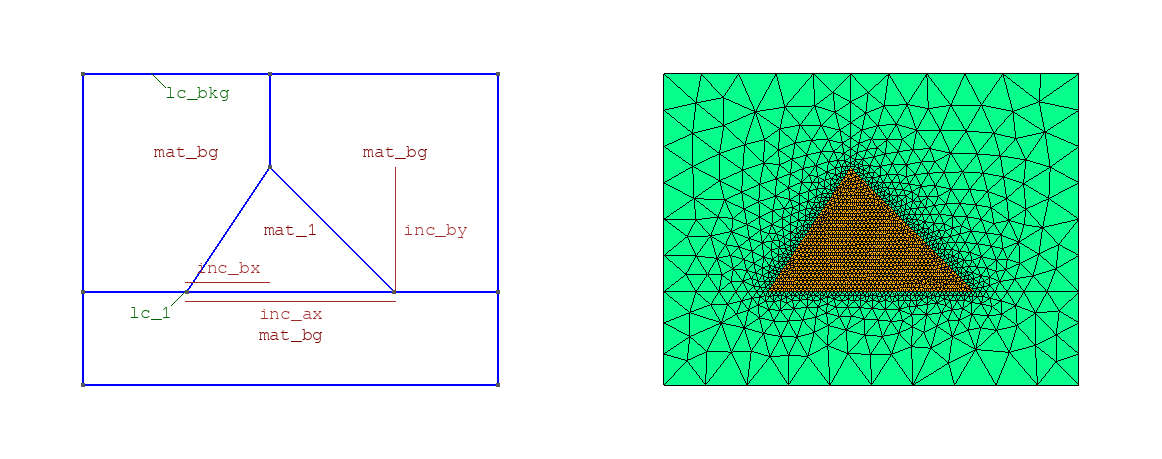
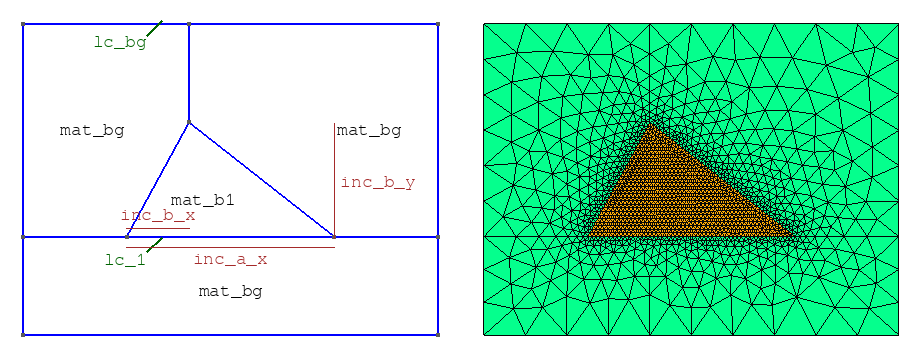
final

diff --git a/docs/source/images/make_meshfigs.py b/docs/source/images/make_meshfigs.py
@@ -1,6 +1,7 @@
 import sys
-from PIL import Image
+from PIL import Image, ImageDraw, ImageFont
 import time
+import math
 
 
 
@@ -17,6 +18,80 @@ mat_c = materials.make_material("SiO2_2016_Smith")
 mat_d = materials.make_material("SiO2_2016_Smith")
 mat_e = materials.make_material("SiO2_2016_Smith")
 
+fnt_mat = ImageFont.truetype("Pillow/Tests/fonts/FreeMono.ttf", 18)
+
+col_mat = 'black'
+col_lc = 'darkgreen'
+col_dim = 'brown'
+
+def add_mat_lab(im, bw, bh, lab, x, y):
+    d = ImageDraw.Draw(im)
+    d.text((x,y), lab, font=fnt_mat, fill=col_mat, anchor='mm')
+
+def add_lc(im, bw, bh, lab, x, y, compass):
+
+    arlen = .05*bw
+    sqlen = .05*bw/math.sqrt(2)
+    ax = x
+    ay = y
+
+    match compass:
+        case 'N':
+            ay -= alen
+            anc = 'mb'
+        case 'S':
+            ay += alen
+            anc = 'mt'
+        case 'E':
+            ax += alen
+            anc = 'lm'
+        case 'W':
+            ax -= alen
+            anc = 'rm'
+        case 'NW':
+            ax -= sqlen
+            ay -= sqlen
+            anc = 'rb'
+        case 'NE':
+            ax += sqlen
+            ay -= sqlen
+            anc = 'lb'
+        case 'SW':
+            ax -= sqlen
+            ay += sqlen
+            anc = 'rt'
+        case 'SE':
+            ax += sqlen
+            ay += sqlen
+            anc = 'lt'
+
+    d = ImageDraw.Draw(im)
+    d.line((x,y,ax,ay), fill=col_lc, width=2)
+    d.text((ax,ay), lab, font=fnt_mat, fill=col_lc, anchor=anc)
+
+def add_dim(im, bw, bh, lab, x1, y1, x2, y2, compass):
+
+    alen = bh*.02
+    tx = (x1 + x2)/2
+    ty = (y1+y2)/2
+
+    match compass:
+        case 'N':
+            ty -= alen
+            anc = 'mb'
+        case 'S':
+            ty += alen
+            anc = 'mt'
+        case 'E':
+            tx += alen
+            anc = 'lm'
+        case 'W':
+            tx -= alen
+            anc = 'rm'
+
+    d = ImageDraw.Draw(im)
+    d.line((x1,y1,x2,y2), fill=col_dim)
+    d.text((tx,ty), lab, font=fnt_mat, fill=col_dim, anchor=anc)
 
 def do_oneincl(nbapp):
 #
@@ -35,8 +110,74 @@ def do_oneincl(nbapp):
     wguide2 = nbapp.make_structure(unitcell_x,inc_a_x,unitcell_y,inc_a_y,'circular',
                             material_bkg=mat_bkg, material_a=mat_a,
                             lc_bkg=.1, lc_refine_1=10, lc_refine_2=10)
-    wguide1.plot_mesh('rect_wg')
-    wguide2.plot_mesh('circ_wg')
+    #wguide1.plot_mesh('rect_wg')
+    #wguide2.plot_mesh('circ_wg')
+
+    
+    unitcell_x = 4000
+    unitcell_y = 3000
+    inc_a_x = 2000
+    inc_b_x = 600
+    inc_b_y = 1100
+
+    wguide3 = nbapp.make_structure(unitcell_x,inc_a_x,unitcell_y,inc_a_y,'triangular',
+                            material_bkg=mat_bkg, material_a=mat_a,
+                            inc_b_x = inc_b_x, inc_b_y = inc_b_y,
+                            lc_bkg=.1, lc_refine_1=10, lc_refine_2=10)
+
+
+    frt = 'triangular'
+    wguide3.plot_mesh(frt+'_wg')
+
+
+    with Image.open(frt+'_wg-mesh.png').convert('RGBA') as im:
+        sz = im.size
+        bl = im.size[0]*.025
+        br = im.size[0]*.475
+        bt = im.size[1]*.06
+        bb = im.size[1]*.93
+        bw = br-bl
+        bh = bb-bt
+
+        scalx = 1/unitcell_x
+        scaly = 1/unitcell_y
+
+        bumpx = -.0*bw
+        bumpy = +.01*bh
+        x0 = (bl+br)/2  + bumpx
+        y0 = (bt+bb)/2 + bumpy
+        ymid = bt+bh*(.5+.5*inc_b_y*scaly) + bumpy
+
+        #add_mat_lab(im, bw, bh, 'x', x0, ymid)
+        #add_mat_lab(im, bw, bh, 'x', bl, bt)
+        #add_mat_lab(im, bw, bh, 'x', br, bt)
+        #add_mat_lab(im, bw, bh, 'x', bl, bb)
+        #add_mat_lab(im, bw, bh, 'x', br, bb)
+
+        add_mat_lab(im, bw, bh, 'mat_b1', x0-bw/15, ymid-bh/8)
+        add_mat_lab(im, bw, bh, 'mat_bg', x0-bw/3, y0-bh/6)
+        add_mat_lab(im, bw, bh, 'mat_bg', x0+bw/3, y0-bh/6)
+        add_mat_lab(im, bw, bh, 'mat_bg', x0, ymid+bh/6)
+
+        add_lc(im, bw, bh, 'lc_bg', x0-bw/6, bt, 'SW')
+        add_lc(im, bw, bh, 'lc_1',  x0-bw/6, ymid, 'SW')
+
+        x1 = x0-.5*bw*inc_a_x*scalx; x2 = x1+bw*inc_a_x*scalx
+        y1 = ymid+.03*bh; y2 = ymid+.03*bh
+        add_dim(im, bw, bh, 'inc_a_x', x1, y1, x2, y2, 'S')
+
+        x1 = x0-.5*bw*inc_a_x*scalx; x2 = x1+bw*inc_b_x*scalx
+        y1 = ymid-.03*bh; y2 = ymid-.03*bh
+        add_dim(im, bw, bh, 'inc_b_x', x1, y1, x2, y2, 'N')
+
+        x1 = x0+.5*bw*inc_a_x*scalx; x2 = x1
+        y1 = ymid; y2 = y1-bh*inc_b_y*scaly
+        add_dim(im, bw, bh, 'inc_b_y', x1, y1, x2, y2, 'E')
+
+
+        im.show()
+        im.save(frt+'_wg-mesh-annotated.png')
+
 
 def do_twoincl(nbapp):
     #
@@ -104,7 +245,7 @@ def do_rib(nbapp):
                                 material_c=mat_c, material_d=mat_d, material_e=mat_e,
                             lc_bkg=.1, lc_refine_1=10, lc_refine_2=10, lc_refine_3=10, 
                                 lc_refine_4=20, lc_refine_5=20)
-    wguide3.check_mesh()
+    #wguide3.check_mesh()
     wguide3.plot_mesh('rib_double_coated_wg')
 
     
@@ -144,8 +285,8 @@ def do_slot(nbapp):
                             lc_bkg=.1, lc_refine_1=10, lc_refine_2=10, 
                                 lc_refine_3=10, lc_refine_4=20)
     wguide2.plot_mesh('slot_coated_wg')
-    wguide1.check_mesh()
-    wguide2.check_mesh()
+    #wguide1.check_mesh()
+    #wguide2.check_mesh()
 
 
 

diff --git a/backend/numbattools.py b/backend/numbattools.py
@@ -10,10 +10,19 @@ import datetime
 
 from PIL import Image
 
-def join_figs(fn1, fn2, fnout):
+def join_figs(l_fns, fnout, clip=None):
 
-    images = [Image.open(x) for x in [fn1, fn2]]
+    images = []
+    for fn in l_fns: 
+        im = Image.open(fn)
 
+        if clip is not None:
+            sz = im.size
+            area = (clip[0], clip[1], sz[0]-clip[2], sz[1]-clip[3])
+            im = im.crop(area)
+        images.append(im)
+
+    #matches heights of first two images
     nsz0 = [images[1].size[0],
             int(images[0].size[1]*
             images[1].size[0]/

diff --git a/backend/objects.py b/backend/objects.py
@@ -650,10 +650,10 @@ class Structure(object):
 
         os.wait()
 
-        nbtools.join_figs(tmpoutpref+'-mesh_geom.png',
-                          tmpoutpref+'-mesh_nodes.png',
-                          str(outprefix)+'-mesh.png')
-        print(tmpoutpref)
+        nbtools.join_figs([tmpoutpref+'-mesh_geom.png',
+                          tmpoutpref+'-mesh_nodes.png',],
+                          str(outprefix)+'-mesh.png',
+                          clip=(60,50,60,50))
 
     def check_mesh(self):
         '''Visualise geometry and mesh with gmsh.'''

diff --git a/backend/plotting.py b/backend/plotting.py
@@ -26,7 +26,7 @@ from mpl_toolkits.axes_grid1 import make_axes_locatable
 
 import numbat
 from nbtypes import QAcMethod, FieldType, component_t
-from fortran import NumBAT
+#from fortran import NumBAT
 import reporting
 
 

diff --git a/docs/source/usage.rst b/docs/source/usage.rst
@@ -226,12 +226,12 @@ These structures consist of a pair of waveguides with a single common background
 The dimesions are set by ``inc_a_x/inc_a_y`` and  ``inc_b_x/inc_b_y``. They are separated
 horintally by ``two_inc_sep`` and the right waveguide has a vertical offset of ``y_off``.
 
-.. figure::  images/meshes/twoincl_rect_wg_mesh_both.png
+.. figure::  images/meshes/twoincl_rect_wg-mesh.png
    :width: 15cm
 
    Coupled rectangular waveguides using shape ``rectangular`` (template ``twoincl_msh``).
 
-.. figure::  images/meshes/twoincl_circ_wg_mesh_both.png
+.. figure::  images/meshes/twoincl_circ_wg-mesh.png
    :width: 15cm
 
    Coupled circular waveguides using shape ``circular`` (template ``twoincl_msh``).
@@ -253,13 +253,13 @@ These structures consist of a rib on one or more substrate layers with zero to t
 
    A coated rib waveguide using shape ``rib_coated`` (template ``rib_coated``).
 
-.. figure:: images/meshes/rib_double_coated_wg_mesh_both.png
+.. figure:: images/meshes/rib_double_coated_wg-mesh.png
    :width: 15cm
 
    A rib waveguide on two substrates using shape ``rib_double_coated`` (template ``rib_double_coated``).
 
 .. .. figure:: images/meshes/slot_wg-mesh-annotated.png
-.. figure:: images/meshes/slot_wg_mesh_both.png
+.. figure:: images/meshes/slot_wg-mesh.png
    :width: 15cm
 
 Engineered rib  waveguides
@@ -268,12 +268,12 @@ Engineered rib  waveguides
 These are examples of more complex rib geometries. These are good examples to study in order to make new designs
 using the user-specified waveguide and mesh mechanism.
 
-.. figure:: images/meshes/trapezoidal_rib_wg_mesh_both.png
+.. figure:: images/meshes/trapezoidal_rib_wg-mesh.png
    :width: 15cm
 
    A trapezoidal rib structure using shape ``trapezoidal_rib``.
 
-.. figure:: images/meshes/pedestal_wg_mesh_both.png
+.. figure:: images/meshes/pedestal_wg-mesh.png
    :width: 15cm
 
    A supported pedestal structure using shape ``pedestal``.
@@ -288,7 +288,7 @@ by the 'slot' effect.
    A slot waveguide using shape ``slot`` (``material_a`` is low index) (template ``slot``).
 
 .. .. figure:: images/meshes/slot_coated_wg-mesh-annotated.png
-.. figure:: images/meshes/slot_coated_wg_mesh_both.png
+.. figure:: images/meshes/slot_coated_wg-mesh.png
    :width: 15cm
 
    A coated slot waveguide using shape ``slot_coated`` (``material_a`` is low index) (template ``slot_coated``).
@@ -303,7 +303,7 @@ Note that ``inc_a_x`` specifies the innermost *diameter*.
 The subsequent parameters ``inc_b_x``, ``inc_c_x``, etc specify the annular thickness of each succssive layer.
 
 
-.. figure:: images/meshes/onion_wg_mesh_both.png
+.. figure:: images/meshes/onion_wg-mesh.png
    :width: 15cm
 
    A many-layered concentric structure using shape ``onion`` (template ``onion``).
